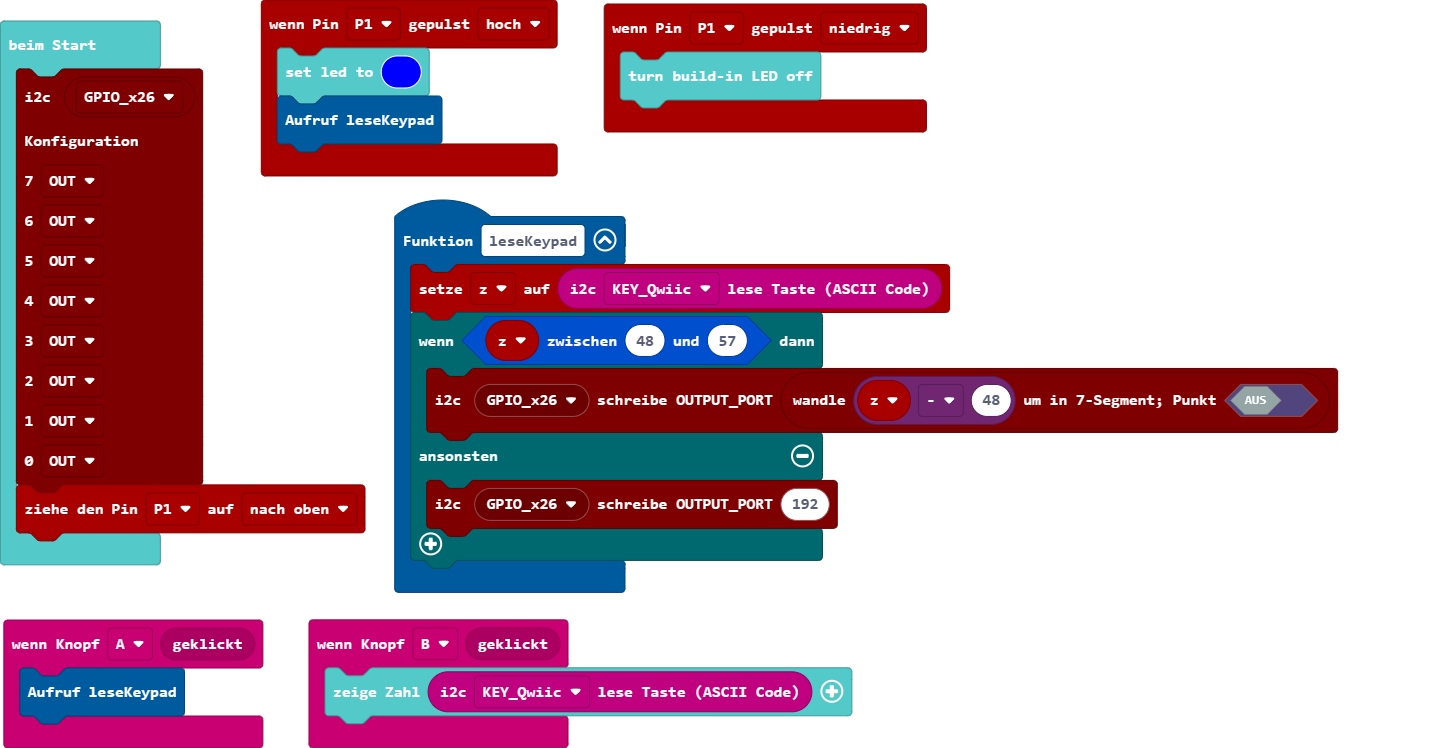
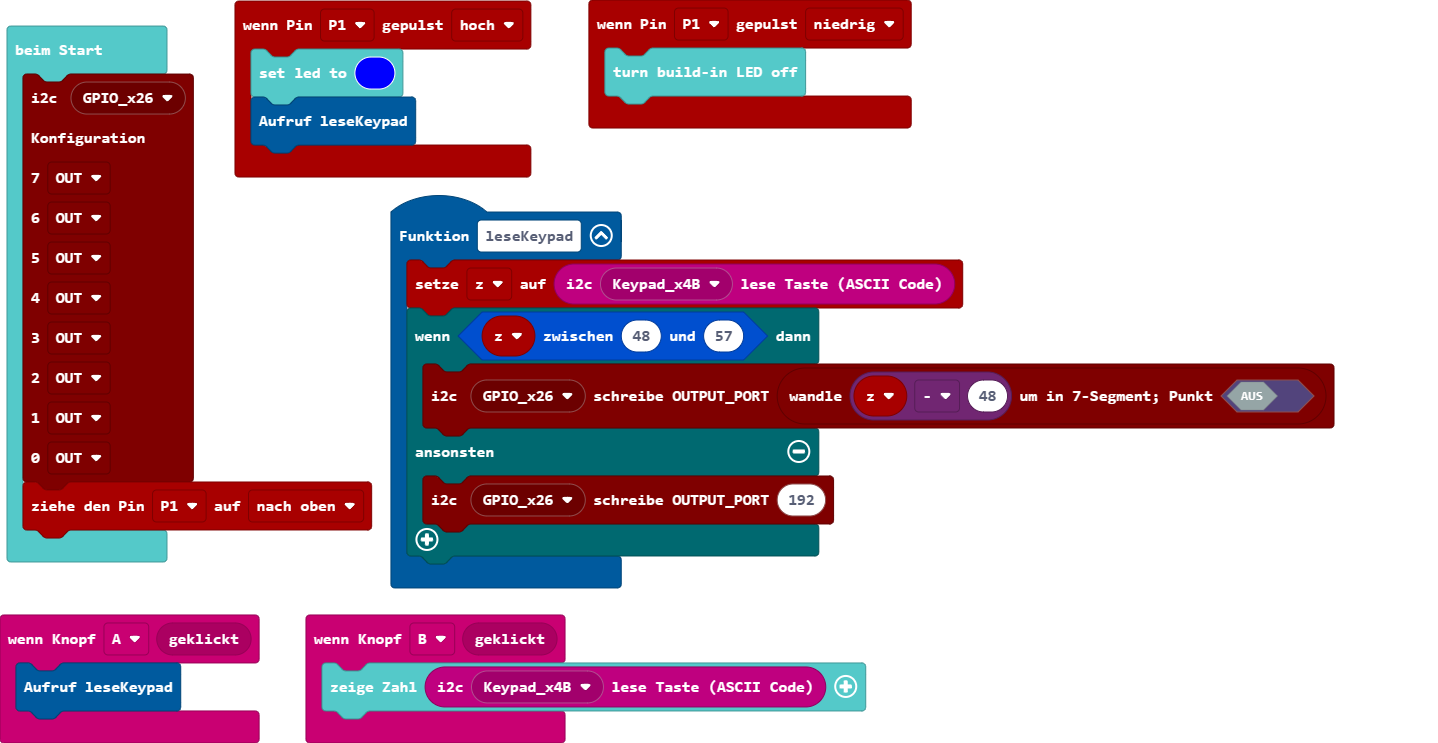
Aktualisiere pxt.json, main.blocks, main.ts

diff --git a/main.ts b/main.ts
@@ -2,7 +2,7 @@ input.onButtonEvent(Button.A, input.buttonEventClick(), function () {
     leseKeypad()
 })
 function leseKeypad () {
-    z = qwiickeypad.getButton(qwiickeypad.eADDR.KEY_Qwiic)
+    z = qwiickeypad.getButton(qwiickeypad.qwiickeypad_eADDR(qwiickeypad.eADDR.Keypad_x4B))
     if (bit.between(z, 48, 57)) {
         qwiicgpio.writeOUTPUT_PORT(qwiicgpio.qwiicgpio_eADDR(qwiicgpio.eADDR.GPIO_x26), qwiicgpio.siebenSegment(z - 48, false))
     } else {
@@ -17,7 +17,7 @@ pins.onPulsed(DigitalPin.P1, PulseValue.High, function () {
     leseKeypad()
 })
 input.onButtonEvent(Button.B, input.buttonEventClick(), function () {
-    basic.showNumber(qwiickeypad.getButton(qwiickeypad.eADDR.KEY_Qwiic))
+    basic.showNumber(qwiickeypad.getButton(qwiickeypad.qwiickeypad_eADDR(qwiickeypad.eADDR.Keypad_x4B)))
 })
 let z = 0
 qwiicgpio.setMode(
